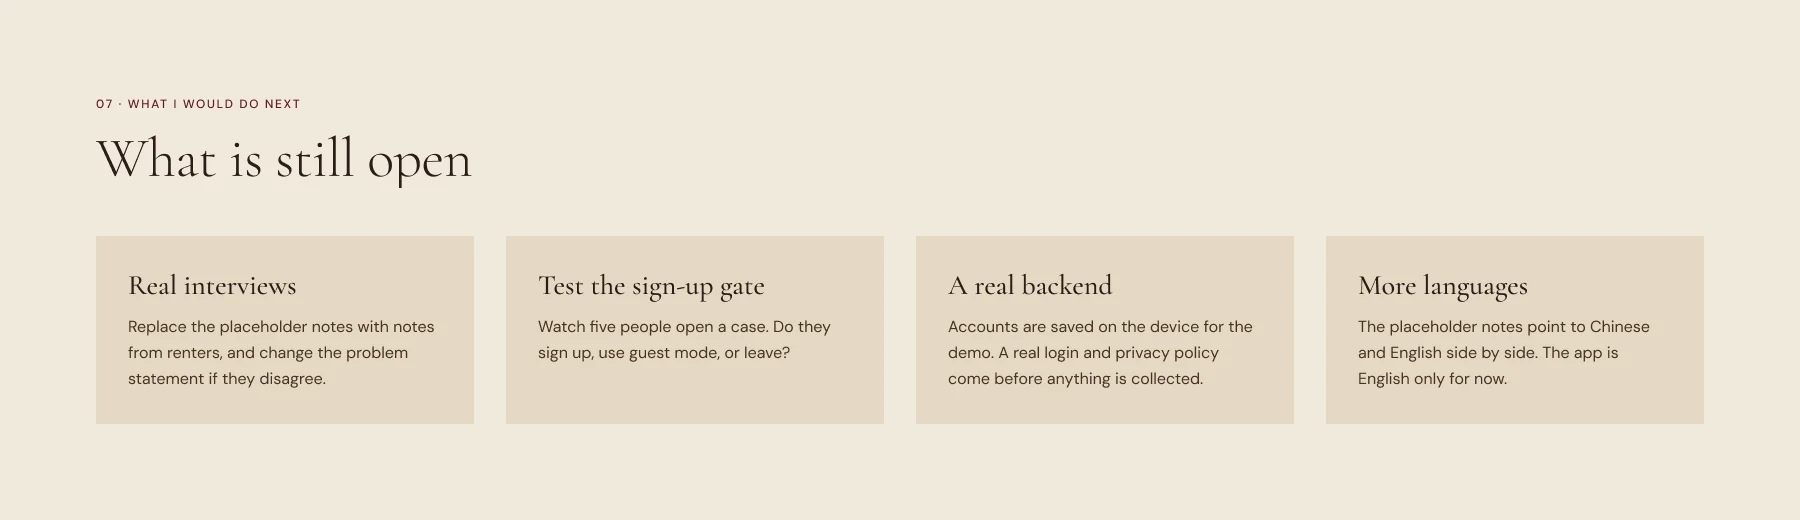
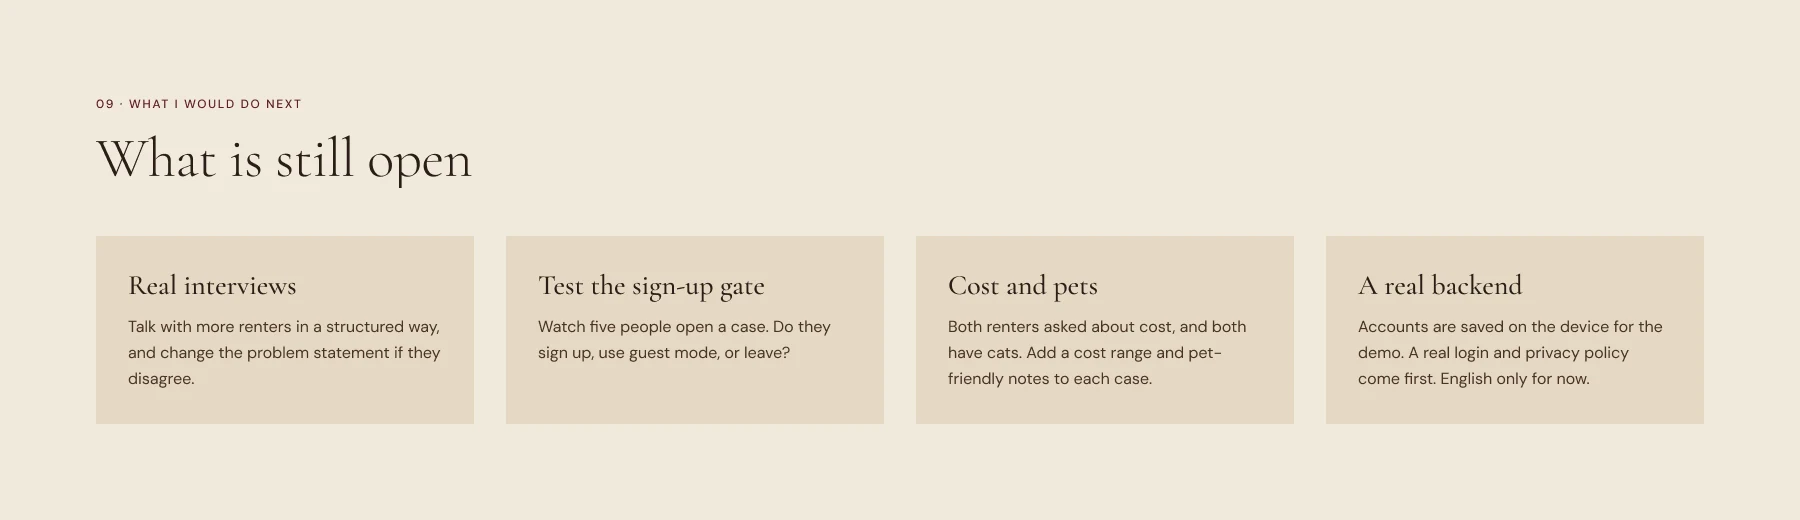
Renter-Proof booklet: 10 pages (accessibility, my role, cost and pets), stacked layout so text stays legible, new app screenshots
Claude-Session: https://claude.ai/code/session_01NB8v9WbXqkFoP6NM176T8o

diff --git a/index.html b/index.html
@@ -175,50 +175,59 @@
         <article class="case" id="case-renter-proof">
           <span class="t-meta">UX/UI case study · Responsive web app · 2026</span>
           <h3 class="t-h3">Renter-Proof</h3>
-          <p class="t-lead prose">Renter-Proof is a design-ideas app for students and renters who live in small rooms they cannot change. It is called Cozy Space Ideas. One codebase runs on a phone and in a browser window of any size.</p>
+          <p class="t-lead prose">Renter-Proof is a design-ideas app for students and renters who live in small rooms they cannot change. It is called Cozy Space Ideas. One codebase runs on a phone and in a browser window of any size, with real sizes, readable contrast and forms that explain themselves.</p>
           <dl class="case-credits">
-            <div><dt class="t-label">My role</dt><dd>Interior designer and UX/UI designer. I sketched the flow in lo-fi, set the direction with a moodboard and my own writing style, and chose every image from my own work. I directed AI tools to turn that into code in Expo and React Native, then reviewed and revised it.</dd></div>
+            <div><dt class="t-label">My role</dt><dd>Interior designer, UX researcher and UI designer. I sketched the flow in lo-fi, set the direction with a moodboard and my own writing style, and chose every image from my own work. I directed AI coding tools to build it in Expo and React Native, then reviewed, tested and revised the result.</dd></div>
             <div><dt class="t-label">Tools</dt><dd><span class="chip">Figma</span> <span class="chip">Expo</span> <span class="chip">React Native</span></dd></div>
           </dl>
           <p class="case-cta"><a class="btn" href="https://interiors.yiwenzhang.com" target="_blank" rel="noopener">Try the demo</a></p>
           <div class="deck" role="region" aria-roledescription="carousel" aria-label="Renter-Proof case study slides">
             <ol class="deck-track" tabindex="0">
-            <li class="deck-slide" aria-label="1 of 8">
+            <li class="deck-slide" aria-label="1 of 10">
               <div class="deck-text"><span class="deck-no">01</span><h4 class="t-h4">Define the problem</h4><p>Small rooms, short leases, no drilling. Most inspiration assumes you can.</p></div>
               <figure><a class="zoom" href="assets/renter-proof/renter-proof-define.webp"><img src="assets/renter-proof/renter-proof-define.webp" alt="Renter-Proof problem statement and three design challenges: ideas that survive a lease, real sizes and real light, look first and sign up later." width="1800" height="755" loading="lazy"></a></figure>
             </li>
-            <li class="deck-slide" aria-label="2 of 8">
-              <div class="deck-text"><span class="deck-no">02</span><h4 class="t-h4">Listen to renters</h4><p>Placeholder notes for two renters, to be replaced with real interviews.</p></div>
-              <figure><a class="zoom" href="assets/renter-proof/renter-proof-people.webp"><img src="assets/renter-proof/renter-proof-people.webp" alt="Two placeholder participant profiles and three insights: measurements decide, light comes last, reversible is the rule." width="1800" height="1025" loading="lazy"></a></figure>
+            <li class="deck-slide" aria-label="2 of 10">
+              <div class="deck-text"><span class="deck-no">02</span><h4 class="t-h4">Listen to renters</h4><p>Two neighbors who ask me for design advice. Informal notes, not a formal study.</p></div>
+              <figure><a class="zoom" href="assets/renter-proof/renter-proof-people.webp"><img src="assets/renter-proof/renter-proof-people.webp" alt="Two renter profiles from early conversations with neighbors, and three insights: measurements decide, light comes last, reversible is the rule." width="1800" height="1033" loading="lazy"></a></figure>
             </li>
-            <li class="deck-slide" aria-label="3 of 8">
+            <li class="deck-slide" aria-label="3 of 10">
               <div class="deck-text"><span class="deck-no">03</span><h4 class="t-h4">Map the flow</h4><p>Browse free. The full case opens after a free account or a guest session.</p></div>
               <figure><a class="zoom" href="assets/renter-proof/renter-proof-flow.webp"><img src="assets/renter-proof/renter-proof-flow.webp" alt="App flow from Home to Ideas, Room type, Case list and Case details, with a locked preview branch and a consult waitlist branch." width="1800" height="762" loading="lazy"></a></figure>
             </li>
-            <li class="deck-slide" aria-label="4 of 8">
+            <li class="deck-slide" aria-label="4 of 10">
               <div class="deck-text"><span class="deck-no">04</span><h4 class="t-h4">Make the calls</h4><p>Free to browse, sizes and light shown, original work only, forms that explain themselves.</p></div>
               <figure><a class="zoom" href="assets/renter-proof/renter-proof-decisions.webp"><img src="assets/renter-proof/renter-proof-decisions.webp" alt="Four design decisions with the reason and what was done for each." width="1800" height="752" loading="lazy"></a></figure>
             </li>
-            <li class="deck-slide" aria-label="5 of 8">
+            <li class="deck-slide" aria-label="5 of 10">
               <div class="deck-text"><span class="deck-no">05</span><h4 class="t-h4">Design the screens</h4><p>Cormorant Garamond and DM Sans on bone, burgundy and brass tokens from my Figma.</p></div>
               <figure><a class="zoom" href="assets/renter-proof/renter-proof-screens.webp"><img src="assets/renter-proof/renter-proof-screens.webp" alt="Five app screens: Home, Ideas, a locked case, sign up with inline checks and the full case." width="1800" height="1061" loading="lazy"></a></figure>
             </li>
-            <li class="deck-slide" aria-label="6 of 8">
-              <div class="deck-text"><span class="deck-no">06</span><h4 class="t-h4">Make it responsive</h4><p>One column on a phone, two on a tablet, three on a desktop.</p></div>
-              <figure><a class="zoom" href="assets/renter-proof/renter-proof-responsive.webp"><img src="assets/renter-proof/renter-proof-responsive.webp" alt="The Home screen at phone, tablet and desktop widths." width="1800" height="972" loading="lazy"></a></figure>
+            <li class="deck-slide" aria-label="6 of 10">
+              <div class="deck-text"><span class="deck-no">06</span><h4 class="t-h4">Make it responsive</h4><p>One column on a phone, two on a tablet, three on a desktop. Header and tabs stay fixed on top.</p></div>
+              <figure><a class="zoom" href="assets/renter-proof/renter-proof-responsive.webp"><img src="assets/renter-proof/renter-proof-responsive.webp" alt="The Home screen at phone, tablet and desktop widths, with the header and tabs fixed at the top in each." width="1800" height="972" loading="lazy"></a></figure>
             </li>
-            <li class="deck-slide" aria-label="7 of 8">
-              <div class="deck-text"><span class="deck-no">07</span><h4 class="t-h4">What is still open</h4><p>Real interviews, a sign-up gate test, a real backend and more languages.</p></div>
-              <figure><a class="zoom" href="assets/renter-proof/renter-proof-next.webp"><img src="assets/renter-proof/renter-proof-next.webp" alt="Four next steps: real interviews, test the sign-up gate, a real backend and more languages." width="1800" height="520" loading="lazy"></a></figure>
+            <li class="deck-slide" aria-label="7 of 10">
+              <div class="deck-text"><span class="deck-no">07</span><h4 class="t-h4">Check accessibility</h4><p>I tested my own work for contrast, forms and tap size, and fixed what failed.</p></div>
+              <figure><a class="zoom" href="assets/renter-proof/renter-proof-access.webp"><img src="assets/renter-proof/renter-proof-access.webp" alt="Four accessibility checks: readable colour, forms you can recover from, controls you can hit, and what I found and fixed in my own work." width="1800" height="744" loading="lazy"></a></figure>
             </li>
-            <li class="deck-slide deck-slide--end" aria-label="8 of 8">
-              <div class="deck-text"><span class="deck-no">08</span><h4 class="t-h4">Try it yourself</h4><p>Open the live demo in any browser, on a phone or a wide screen. Resize the window and watch the layout change.</p><p class="case-cta"><a class="btn" href="https://interiors.yiwenzhang.com" target="_blank" rel="noopener">Try the demo</a></p><p class="t-small">Demo only: accounts are saved on your device, and nothing is sold. Available in the US.</p></div>
+            <li class="deck-slide" aria-label="8 of 10">
+              <div class="deck-text"><span class="deck-no">08</span><h4 class="t-h4">My role</h4><p>Interior designer, UX researcher, UI designer, and director of the build.</p></div>
+              <figure><a class="zoom" href="assets/renter-proof/renter-proof-role.webp"><img src="assets/renter-proof/renter-proof-role.webp" alt="My four roles on this project: interior designer, UX researcher, UI designer and front-end director." width="1800" height="520" loading="lazy"></a></figure>
+            </li>
+            <li class="deck-slide" aria-label="9 of 10">
+              <div class="deck-text"><span class="deck-no">09</span><h4 class="t-h4">What is still open</h4><p>Interviews, the sign-up gate, cost and pets, and a real backend.</p></div>
+              <figure><a class="zoom" href="assets/renter-proof/renter-proof-next.webp"><img src="assets/renter-proof/renter-proof-next.webp" alt="Four next steps: real interviews, test the sign-up gate, cost and pets, and a real backend." width="1800" height="520" loading="lazy"></a></figure>
+            </li>
+            <li class="deck-slide deck-slide--end" aria-label="10 of 10">
+              <div class="deck-text"><span class="deck-no">10</span><h4 class="t-h4">Try it yourself</h4><p>Open the live demo in any browser, on a phone or a wide screen. Resize the window and watch the layout change.</p><p class="case-cta"><a class="btn" href="https://interiors.yiwenzhang.com" target="_blank" rel="noopener">Try the demo</a></p><p class="t-small">Demo only: accounts are saved on your device, and nothing is sold. Available in the US.</p></div>
             </li>
             </ol>
             <div class="deck-bar">
               <button type="button" class="deck-btn" data-dir="-1" aria-label="Previous slide">&larr;</button>
               <button type="button" class="deck-btn" data-dir="1" aria-label="Next slide">&rarr;</button>
-              <span class="t-small deck-count" aria-live="polite">1 / 8</span>
+              <span class="t-small deck-count" aria-live="polite">1 / 10</span>
+              <span class="t-small deck-hint">Click or tap a page to enlarge it</span>
             </div>
           </div>
         </article>

diff --git a/css/styles.css b/css/styles.css
@@ -960,27 +960,28 @@ a.zoom { display: block; cursor: zoom-in; }
 
 /* ---------- Case study booklet: pages you turn sideways ---------- */
 .deck { margin-top: var(--space-7); }
-.deck-track { display: flex; gap: var(--space-5); overflow-x: auto; scroll-snap-type: x mandatory; list-style: none; margin: 0; padding: 0 0 var(--space-4); overscroll-behavior-x: contain; scrollbar-width: thin; }
-.deck-slide { flex: 0 0 min(92%, 68rem); scroll-snap-align: start; display: grid; grid-template-columns: minmax(0, 17rem) minmax(0, 1fr); gap: var(--space-6); align-items: stretch; min-height: 30rem; padding: var(--space-6); background: var(--surface); border: var(--stroke-soft); border-radius: var(--radius-lg); box-shadow: var(--shadow-sm); }
-.deck-slide figure { margin: 0; display: grid; place-items: center; background: var(--surface-tint); border-radius: var(--radius-md); padding: var(--space-4); min-width: 0; }
-.deck-slide img { width: 100%; height: auto; max-height: 26rem; object-fit: contain; display: block; border-radius: var(--radius-sm); }
-.deck-slide a.zoom { display: block; width: 100%; cursor: zoom-in; border-radius: var(--radius-sm); }
-.deck-text { display: flex; flex-direction: column; gap: var(--space-3); align-self: start; }
-.deck-no { font-size: var(--text-4xl); line-height: 1; letter-spacing: -0.02em; color: var(--accent-text); font-variant-numeric: tabular-nums; }
+.deck-track { display: flex; align-items: flex-start; gap: var(--space-5); overflow-x: auto; scroll-snap-type: x mandatory; list-style: none; margin: 0; padding: 0 0 var(--space-4); overscroll-behavior-x: contain; scrollbar-width: thin; }
+.deck-slide { flex: 0 0 min(94%, 72rem); scroll-snap-align: start; display: grid; gap: var(--space-4); padding: var(--space-5); background: var(--surface); border: var(--stroke-soft); border-radius: var(--radius-lg); box-shadow: var(--shadow-sm); }
+.deck-slide figure { margin: 0; min-width: 0; }
+.deck-slide img { width: 100%; height: auto; display: block; border-radius: var(--radius-md); }
+.deck-slide a.zoom { display: block; cursor: zoom-in; border-radius: var(--radius-md); }
+.deck-text { display: grid; grid-template-columns: auto minmax(0, 1fr); column-gap: var(--space-4); align-items: baseline; }
+.deck-no { grid-row: 1 / span 2; font-size: var(--text-3xl); line-height: 1; letter-spacing: -0.02em; color: var(--accent-text); font-variant-numeric: tabular-nums; }
 .deck-text h4 { margin: 0; }
-.deck-text p { margin: 0; color: var(--text-muted); }
-.deck-slide--end { grid-template-columns: 1fr; align-content: center; background: var(--surface-tint); }
-.deck-slide--end .deck-text { max-width: 36rem; }
+.deck-text p { margin: 0; color: var(--text-muted); grid-column: 2; }
+.deck-slide--end { background: var(--surface-tint); min-height: 18rem; align-content: center; }
+.deck-slide--end .deck-text { max-width: 40rem; row-gap: var(--space-3); }
 .deck-slide--end .case-cta { margin-top: var(--space-2); }
 .deck-bar { display: flex; align-items: center; gap: var(--space-3); margin-top: var(--space-3); }
 .deck-btn { width: 44px; height: 44px; border-radius: 50%; border: 1px solid var(--border-strong); background: var(--surface); color: var(--text); font-size: 20px; line-height: 1; cursor: pointer; }
 .deck-btn:disabled { opacity: .35; cursor: default; }
 .deck-btn:focus-visible, .deck-track:focus-visible { outline: 3px solid var(--focus); outline-offset: 3px; }
 .deck-count { color: var(--text-muted); font-variant-numeric: tabular-nums; }
+.deck-hint { color: var(--text-muted); margin-left: auto; }
 @media (max-width: 48em) {
   .deck-track { gap: var(--space-3); }
-  .deck-slide { flex-basis: 88%; grid-template-columns: 1fr; gap: var(--space-4); min-height: 0; padding: var(--space-4); }
-  .deck-no { font-size: var(--text-3xl); }
+  .deck-slide { flex-basis: 90%; padding: var(--space-4); }
+  .deck-no { font-size: var(--text-2xl); }
 }
 @media (prefers-reduced-motion: no-preference) { .deck-track { scroll-behavior: smooth; } }
 
